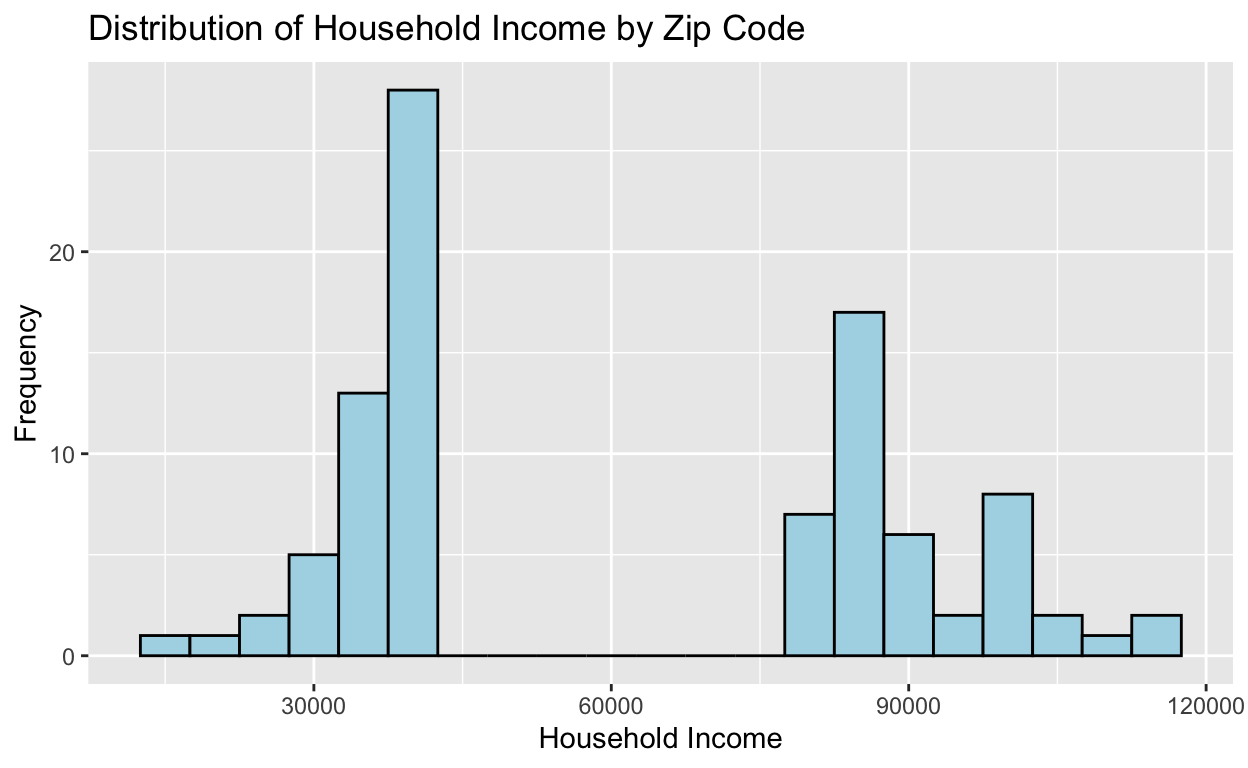
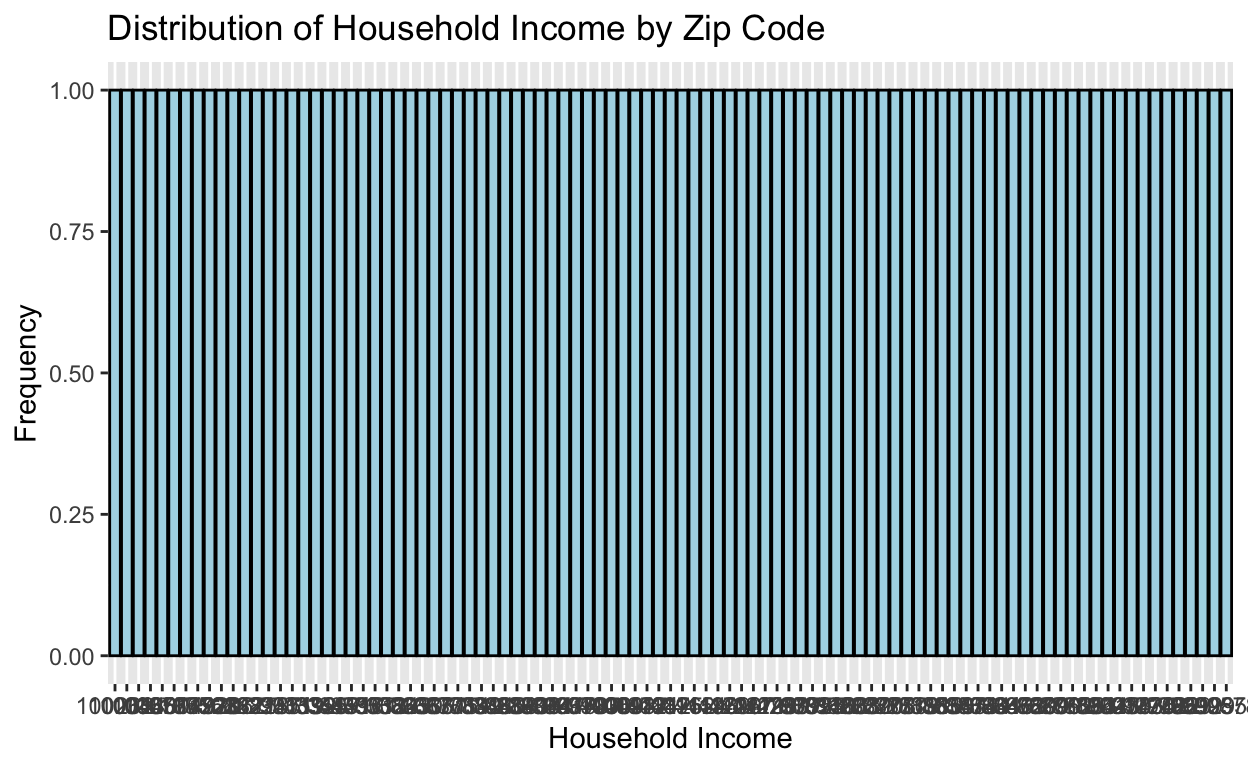
commit

diff --git a/index.html b/index.html
@@ -115,7 +115,7 @@ code span.wa { color: #5e5e5e; font-style: italic; } /* Warning */
   <!--/radix_placeholder_rmarkdown_metadata-->
   
   <script type="text/json" id="radix-resource-manifest">
-  {"type":"character","attributes":{},"value":["index_files/anchor-4.2.2/anchor.min.js","index_files/bowser-1.9.3/bowser.min.js","index_files/distill-2.2.21/template.v2.js","index_files/figure-html5/unnamed-chunk-7-1.png","index_files/header-attrs-2.17/header-attrs.js","index_files/header-attrs-2.28/header-attrs.js","index_files/jquery-3.6.0/jquery-3.6.0.js","index_files/jquery-3.6.0/jquery-3.6.0.min.js","index_files/jquery-3.6.0/jquery-3.6.0.min.map","index_files/popper-2.6.0/popper.min.js","index_files/tippy-6.2.7/tippy-bundle.umd.min.js","index_files/tippy-6.2.7/tippy-light-border.css","index_files/tippy-6.2.7/tippy.css","index_files/tippy-6.2.7/tippy.umd.min.js","index_files/webcomponents-2.0.0/webcomponents.js","PS270-Final-Project_files/anchor-4.2.2/anchor.min.js","PS270-Final-Project_files/bowser-1.9.3/bowser.min.js","PS270-Final-Project_files/distill-2.2.21/template.v2.js","PS270-Final-Project_files/header-attrs-2.28/header-attrs.js","PS270-Final-Project_files/jquery-3.6.0/jquery-3.6.0.js","PS270-Final-Project_files/jquery-3.6.0/jquery-3.6.0.min.js","PS270-Final-Project_files/jquery-3.6.0/jquery-3.6.0.min.map","PS270-Final-Project_files/popper-2.6.0/popper.min.js","PS270-Final-Project_files/tippy-6.2.7/tippy-bundle.umd.min.js","PS270-Final-Project_files/tippy-6.2.7/tippy-light-border.css","PS270-Final-Project_files/tippy-6.2.7/tippy.css","PS270-Final-Project_files/tippy-6.2.7/tippy.umd.min.js","PS270-Final-Project_files/webcomponents-2.0.0/webcomponents.js","PS270-Final-Project.html"]}
+  {"type":"character","attributes":{},"value":["index_files/anchor-4.2.2/anchor.min.js","index_files/bowser-1.9.3/bowser.min.js","index_files/distill-2.2.21/template.v2.js","index_files/figure-html5/unnamed-chunk-7-1.png","index_files/figure-html5/unnamed-chunk-9-1.png","index_files/header-attrs-2.17/header-attrs.js","index_files/header-attrs-2.28/header-attrs.js","index_files/jquery-3.6.0/jquery-3.6.0.js","index_files/jquery-3.6.0/jquery-3.6.0.min.js","index_files/jquery-3.6.0/jquery-3.6.0.min.map","index_files/popper-2.6.0/popper.min.js","index_files/tippy-6.2.7/tippy-bundle.umd.min.js","index_files/tippy-6.2.7/tippy-light-border.css","index_files/tippy-6.2.7/tippy.css","index_files/tippy-6.2.7/tippy.umd.min.js","index_files/webcomponents-2.0.0/webcomponents.js","PS270-Final-Project_files/anchor-4.2.2/anchor.min.js","PS270-Final-Project_files/bowser-1.9.3/bowser.min.js","PS270-Final-Project_files/distill-2.2.21/template.v2.js","PS270-Final-Project_files/header-attrs-2.28/header-attrs.js","PS270-Final-Project_files/jquery-3.6.0/jquery-3.6.0.js","PS270-Final-Project_files/jquery-3.6.0/jquery-3.6.0.min.js","PS270-Final-Project_files/jquery-3.6.0/jquery-3.6.0.min.map","PS270-Final-Project_files/popper-2.6.0/popper.min.js","PS270-Final-Project_files/tippy-6.2.7/tippy-bundle.umd.min.js","PS270-Final-Project_files/tippy-6.2.7/tippy-light-border.css","PS270-Final-Project_files/tippy-6.2.7/tippy.css","PS270-Final-Project_files/tippy-6.2.7/tippy.umd.min.js","PS270-Final-Project_files/webcomponents-2.0.0/webcomponents.js","PS270-Final-Project.html"]}
   </script>
   <!--radix_placeholder_navigation_in_header-->
   <!--/radix_placeholder_navigation_in_header-->
@@ -1555,15 +1555,32 @@ code span.wa { color: #5e5e5e; font-style: italic; } /* Warning */
 <div class="layout-chunk" data-layout="l-body">
 <div class="sourceCode">
 <pre class="sourceCode r"><code class="sourceCode r"><span><span class='kw'><a href='https://rdrr.io/r/base/library.html'>library</a></span><span class='op'>(</span><span class='va'><a href='https://readr.tidyverse.org'>readr</a></span><span class='op'>)</span></span>
-<span><span class='va'>Adults_Table_1</span> <span class='op'>&lt;-</span> <span class='fu'><a href='https://readr.tidyverse.org/reference/read_delim.html'>read_csv</a></span><span class='op'>(</span><span class='st'>"~/Obesity+Prevalence+by+ZIP+Code+and+Gender,+Adults+and+Children/Adults-Table 1.csv"</span><span class='op'>)</span></span>
-<span><span class='fu'><a href='https://rdrr.io/r/utils/View.html'>View</a></span><span class='op'>(</span><span class='va'>Adults_Table_1</span><span class='op'>)</span></span></code></pre>
+<span><span class='kw'><a href='https://rdrr.io/r/base/library.html'>library</a></span><span class='op'>(</span><span class='va'><a href='https://tidyverse.tidyverse.org'>tidyverse</a></span><span class='op'>)</span></span>
+<span><span class='va'>obesityrate</span> <span class='op'>&lt;-</span> <span class='fu'><a href='https://readr.tidyverse.org/reference/read_delim.html'>read_csv</a></span><span class='op'>(</span><span class='st'>"~/Obesity+Prevalence+by+ZIP+Code+and+Gender,+Adults+and+Children/Adults-Table 1.csv"</span><span class='op'>)</span></span>
+<span></span>
+<span><span class='co'>#cols</span></span>
+<span><span class='va'>obesityrate</span> <span class='op'>&lt;-</span> <span class='va'>obesityrate</span><span class='op'>[</span><span class='op'>-</span><span class='fu'><a href='https://rdrr.io/r/base/c.html'>c</a></span><span class='op'>(</span><span class='fl'>1</span>, <span class='fl'>4</span>, <span class='fl'>5</span>,<span class='fl'>6</span>,<span class='fl'>7</span>,<span class='fl'>8</span><span class='op'>)</span><span class='op'>]</span></span>
+<span></span>
+<span><span class='co'>#rows</span></span>
+<span><span class='va'>obesityrate</span> <span class='op'>&lt;-</span> <span class='va'>obesityrate</span> <span class='op'>|&gt;</span></span>
+<span>  <span class='fu'><a href='https://dplyr.tidyverse.org/reference/slice.html'>slice</a></span><span class='op'>(</span><span class='op'>-</span><span class='fu'><a href='https://rdrr.io/r/base/c.html'>c</a></span><span class='op'>(</span><span class='fl'>1</span><span class='op'>:</span><span class='fl'>5</span><span class='op'>)</span><span class='op'>)</span> <span class='op'>|&gt;</span></span>
+<span>  <span class='fu'><a href='https://tidyr.tidyverse.org/reference/drop_na.html'>drop_na</a></span><span class='op'>(</span><span class='op'>)</span> <span class='op'>|&gt;</span></span>
+<span>  <span class='fu'><a href='https://dplyr.tidyverse.org/reference/rename.html'>rename</a></span><span class='op'>(</span><span class='st'>'Zip_Code'</span> <span class='op'>=</span> <span class='fl'>1</span><span class='op'>)</span> <span class='op'>|&gt;</span></span>
+<span>  <span class='fu'><a href='https://dplyr.tidyverse.org/reference/rename.html'>rename</a></span><span class='op'>(</span><span class='st'>'Obesity_Prevalence'</span> <span class='op'>=</span> <span class='fl'>2</span><span class='op'>)</span></span>
+<span><span class='fu'><a href='https://rdrr.io/r/utils/View.html'>View</a></span><span class='op'>(</span><span class='va'>obesityrate</span><span class='op'>)</span></span></code></pre>
 </div>
 </div>
 <div class="layout-chunk" data-layout="l-body">
 <div class="sourceCode">
 <pre class="sourceCode r"><code class="sourceCode r"><span><span class='kw'><a href='https://rdrr.io/r/base/library.html'>library</a></span><span class='op'>(</span><span class='va'><a href='https://readr.tidyverse.org'>readr</a></span><span class='op'>)</span></span>
-<span><span class='va'>WI_Household_Income_by_Zip_1_</span> <span class='op'>&lt;-</span> <span class='fu'><a href='https://readr.tidyverse.org/reference/read_delim.html'>read_csv</a></span><span class='op'>(</span><span class='st'>"~/WI Household Income by Zip (1).csv"</span><span class='op'>)</span></span>
-<span><span class='fu'><a href='https://rdrr.io/r/utils/View.html'>View</a></span><span class='op'>(</span><span class='va'>WI_Household_Income_by_Zip_1_</span><span class='op'>)</span></span></code></pre>
+<span></span>
+<span><span class='va'>householdincome</span> <span class='op'>&lt;-</span> <span class='fu'><a href='https://readr.tidyverse.org/reference/read_delim.html'>read_csv</a></span><span class='op'>(</span><span class='st'>"~/WI Household Income by Zip (1).csv"</span><span class='op'>)</span></span>
+<span></span>
+<span><span class='fu'><a href='https://rdrr.io/r/base/colnames.html'>colnames</a></span><span class='op'>(</span><span class='va'>householdincome</span><span class='op'>)</span> <span class='op'>&lt;-</span> <span class='fu'><a href='https://rdrr.io/r/base/c.html'>c</a></span><span class='op'>(</span><span class='st'>"Zip_Code"</span>, <span class='st'>"Income"</span><span class='op'>)</span></span>
+<span><span class='va'>householdincome</span><span class='op'>$</span><span class='va'>Zip_Code</span> <span class='op'>&lt;-</span> <span class='fu'><a href='https://rdrr.io/r/base/character.html'>as.character</a></span><span class='op'>(</span><span class='va'>householdincome</span><span class='op'>$</span><span class='va'>Zip_Code</span><span class='op'>)</span></span>
+<span><span class='va'>householdincome</span><span class='op'>$</span><span class='va'>Income</span> <span class='op'>&lt;-</span> <span class='fu'><a href='https://rdrr.io/r/base/character.html'>as.character</a></span><span class='op'>(</span><span class='va'>householdincome</span><span class='op'>$</span><span class='va'>Income</span><span class='op'>)</span></span>
+<span></span>
+<span><span class='fu'><a href='https://rdrr.io/r/utils/View.html'>View</a></span><span class='op'>(</span><span class='va'>householdincome</span><span class='op'>)</span></span></code></pre>
 </div>
 </div>
 <div class="layout-chunk" data-layout="l-body">
@@ -1573,33 +1590,47 @@ code span.wa { color: #5e5e5e; font-style: italic; } /* Warning */
 </div>
 <div class="layout-chunk" data-layout="l-body">
 <div class="sourceCode">
-<pre class="sourceCode r"><code class="sourceCode r"><span><span class='va'>obesityrate</span> <span class='op'>&lt;-</span> <span class='va'>Adults_Table_1</span></span>
-<span><span class='va'>householdincome</span> <span class='op'>&lt;-</span> <span class='va'>WI_Household_Income_by_Zip_1_</span></span></code></pre>
-</div>
-</div>
-<div class="layout-chunk" data-layout="l-body">
-<div class="sourceCode">
 <pre class="sourceCode r"><code class="sourceCode r"><span><span class='va'>householdincome</span> </span></code></pre>
 </div>
 <pre><code># A tibble: 95 × 2
-   `Zip Code` Income
-        &lt;dbl&gt;  &lt;dbl&gt;
- 1      53069 115568
- 2      53122 113750
- 3      53097 107667
- 4      53017 106577
- 5      53076 103000
- 6      53045 100438
- 7      54942 100344
- 8      53217 100262
- 9      53593  99578
-10      53183  99085
+   Zip_Code Income
+   &lt;chr&gt;    &lt;chr&gt; 
+ 1 53069    115568
+ 2 53122    113750
+ 3 53097    107667
+ 4 53017    106577
+ 5 53076    103000
+ 6 53045    100438
+ 7 54942    100344
+ 8 53217    100262
+ 9 53593    99578 
+10 53183    99085 
 # ℹ 85 more rows</code></pre>
 </div>
 <div class="layout-chunk" data-layout="l-body">
 <div class="sourceCode">
-<pre class="sourceCode r"><code class="sourceCode r"><span><span class='fu'><a href='https://ggplot2.tidyverse.org/reference/ggplot.html'>ggplot</a></span><span class='op'>(</span><span class='va'>householdincome</span>, <span class='fu'><a href='https://ggplot2.tidyverse.org/reference/aes.html'>aes</a></span><span class='op'>(</span>x <span class='op'>=</span> <span class='va'>Income</span><span class='op'>)</span><span class='op'>)</span> <span class='op'>+</span></span>
-<span>  <span class='fu'><a href='https://ggplot2.tidyverse.org/reference/geom_histogram.html'>geom_histogram</a></span><span class='op'>(</span>binwidth <span class='op'>=</span> <span class='fl'>5000</span>, fill <span class='op'>=</span> <span class='st'>"lightblue"</span>, color <span class='op'>=</span> <span class='st'>"black"</span><span class='op'>)</span> <span class='op'>+</span></span>
+<pre class="sourceCode r"><code class="sourceCode r"><span><span class='va'>householdincome_obesityrate</span> <span class='op'>&lt;-</span> <span class='fu'><a href='https://dplyr.tidyverse.org/reference/mutate-joins.html'>inner_join</a></span><span class='op'>(</span><span class='va'>obesityrate</span>, <span class='va'>householdincome</span><span class='op'>)</span></span>
+<span><span class='va'>householdincome_obesityrate</span></span></code></pre>
+</div>
+<pre><code># A tibble: 95 × 3
+   Zip_Code Obesity_Prevalence Income
+   &lt;chr&gt;    &lt;chr&gt;              &lt;chr&gt; 
+ 1 53002    40.2               85478 
+ 2 53005    29.9               97202 
+ 3 53012    33.8               88844 
+ 4 53017    35.8               106577
+ 5 53018    31.0               97482 
+ 6 53021    43.4               82750 
+ 7 53045    27.2               100438
+ 8 53049    .                  83191 
+ 9 53066    .                  86343 
+10 53069    38.0               115568
+# ℹ 85 more rows</code></pre>
+</div>
+<div class="layout-chunk" data-layout="l-body">
+<div class="sourceCode">
+<pre class="sourceCode r"><code class="sourceCode r"><span><span class='fu'><a href='https://ggplot2.tidyverse.org/reference/ggplot.html'>ggplot</a></span><span class='op'>(</span><span class='va'>householdincome_obesityrate</span>, <span class='fu'><a href='https://ggplot2.tidyverse.org/reference/aes.html'>aes</a></span><span class='op'>(</span>x <span class='op'>=</span> <span class='va'>Income</span><span class='op'>)</span><span class='op'>)</span> <span class='op'>+</span></span>
+<span>  <span class='fu'><a href='https://ggplot2.tidyverse.org/reference/geom_bar.html'>geom_bar</a></span><span class='op'>(</span>stat<span class='op'>=</span> <span class='st'>"count"</span>, fill <span class='op'>=</span> <span class='st'>"lightblue"</span>, color <span class='op'>=</span> <span class='st'>"black"</span><span class='op'>)</span> <span class='op'>+</span></span>
 <span>  <span class='fu'><a href='https://ggplot2.tidyverse.org/reference/labs.html'>labs</a></span><span class='op'>(</span>title <span class='op'>=</span> <span class='st'>"Distribution of Household Income by Zip Code"</span>,</span>
 <span>       x <span class='op'>=</span> <span class='st'>"Household Income"</span>,</span>
 <span>       y <span class='op'>=</span> <span class='st'>"Frequency"</span><span class='op'>)</span></span></code></pre>
@@ -1607,7 +1638,46 @@ code span.wa { color: #5e5e5e; font-style: italic; } /* Warning */
 <p><img src="index_files/figure-html5/unnamed-chunk-7-1.png" width="624" /></p>
 </div>
 <p>This is the top 50 median incomes in Wisconsin and the bottom 50 median incomes in Wisconsin. Data was difficult to access so I was only able to access these 100 points– that is why the distribution looks like this. If it is preferable I can try to instead find 50 random zipcodes and their median incomes but this data is difficult to access in an acessible manner.</p>
-<div class="sourceCode" id="cb2"><pre class="sourceCode r distill-force-highlighting-css"><code class="sourceCode r"></code></pre></div>
+<h2 id="milestone-4">Milestone 4</h2>
+<div class="layout-chunk" data-layout="l-body">
+<div class="sourceCode">
+<pre class="sourceCode r"><code class="sourceCode r"><span><span class='va'>householdincome_obesityrate</span> <span class='op'>&lt;-</span> <span class='fu'><a href='https://dplyr.tidyverse.org/reference/mutate-joins.html'>inner_join</a></span><span class='op'>(</span><span class='va'>obesityrate</span>, <span class='va'>householdincome</span><span class='op'>)</span></span>
+<span><span class='va'>householdincome_obesityrate</span></span></code></pre>
+</div>
+<pre><code># A tibble: 95 × 3
+   Zip_Code Obesity_Prevalence Income
+   &lt;chr&gt;    &lt;chr&gt;              &lt;chr&gt; 
+ 1 53002    40.2               85478 
+ 2 53005    29.9               97202 
+ 3 53012    33.8               88844 
+ 4 53017    35.8               106577
+ 5 53018    31.0               97482 
+ 6 53021    43.4               82750 
+ 7 53045    27.2               100438
+ 8 53049    .                  83191 
+ 9 53066    .                  86343 
+10 53069    38.0               115568
+# ℹ 85 more rows</code></pre>
+<div class="sourceCode">
+<pre class="sourceCode r"><code class="sourceCode r"><span><span class='va'>householdincome_obesityrate</span><span class='op'>$</span><span class='va'>Income</span> <span class='op'>&lt;-</span> <span class='fu'><a href='https://rdrr.io/r/base/numeric.html'>as.numeric</a></span><span class='op'>(</span><span class='va'>householdincome_obesityrate</span><span class='op'>$</span><span class='va'>Income</span><span class='op'>)</span></span>
+<span><span class='va'>householdincome_obesityrate</span><span class='op'>$</span><span class='va'>Obesity_Prevalence</span> <span class='op'>&lt;-</span> <span class='fu'><a href='https://rdrr.io/r/base/numeric.html'>as.numeric</a></span><span class='op'>(</span><span class='va'>householdincome_obesityrate</span><span class='op'>$</span><span class='va'>Obesity_Prevalence</span><span class='op'>)</span></span></code></pre>
+</div>
+</div>
+<div class="layout-chunk" data-layout="l-body">
+<div class="sourceCode">
+<pre class="sourceCode r"><code class="sourceCode r"><span><span class='fu'><a href='https://ggplot2.tidyverse.org/reference/ggplot.html'>ggplot</a></span><span class='op'>(</span>data <span class='op'>=</span> <span class='va'>householdincome_obesityrate</span>, <span class='fu'><a href='https://ggplot2.tidyverse.org/reference/aes.html'>aes</a></span><span class='op'>(</span>x <span class='op'>=</span> <span class='va'>Income</span>, y <span class='op'>=</span> <span class='va'>Obesity_Prevalence</span><span class='op'>)</span><span class='op'>)</span> <span class='op'>+</span></span>
+<span>  <span class='fu'><a href='https://ggplot2.tidyverse.org/reference/geom_point.html'>geom_point</a></span><span class='op'>(</span>color <span class='op'>=</span> <span class='st'>"blue"</span>, size <span class='op'>=</span> <span class='fl'>3</span><span class='op'>)</span> <span class='op'>+</span> </span>
+<span>  <span class='fu'><a href='https://ggplot2.tidyverse.org/reference/geom_smooth.html'>geom_smooth</a></span><span class='op'>(</span>method <span class='op'>=</span> <span class='st'>"lm"</span>, color <span class='op'>=</span> <span class='st'>"red"</span><span class='op'>)</span></span></code></pre>
+</div>
+<img src="index_files/figure-html5/unnamed-chunk-9-1.png" width="624" />
+<div class="sourceCode">
+<pre class="sourceCode r"><code class="sourceCode r"><span>  <span class='fu'><a href='https://ggplot2.tidyverse.org/reference/labs.html'>labs</a></span><span class='op'>(</span>x <span class='op'>=</span> <span class='st'>"Income Level"</span>, y <span class='op'>=</span> <span class='st'>"Obesity Prevalence"</span>, title <span class='op'>=</span> <span class='st'>"Obesity Prevalence vs Income Level"</span><span class='op'>)</span> <span class='op'>+</span> </span>
+<span>  <span class='fu'><a href='https://ggplot2.tidyverse.org/reference/ggtheme.html'>theme_minimal</a></span><span class='op'>(</span><span class='op'>)</span> </span></code></pre>
+</div>
+<pre><code>NULL</code></pre>
+</div>
+<p>The graph indicates confirms my hypothesis because it indicates that there is an decrease in obesity prevalence when income increases. There are two major outliers, but when looking at the data these outliers are explained by Madison, WI. Madison is a college town so has younger healthy students that have a lower income due to their status as students.</p>
+<div class="sourceCode" id="cb5"><pre class="sourceCode r distill-force-highlighting-css"><code class="sourceCode r"></code></pre></div>
 <!--radix_placeholder_article_footer-->
 <!--/radix_placeholder_article_footer-->
 </div>
